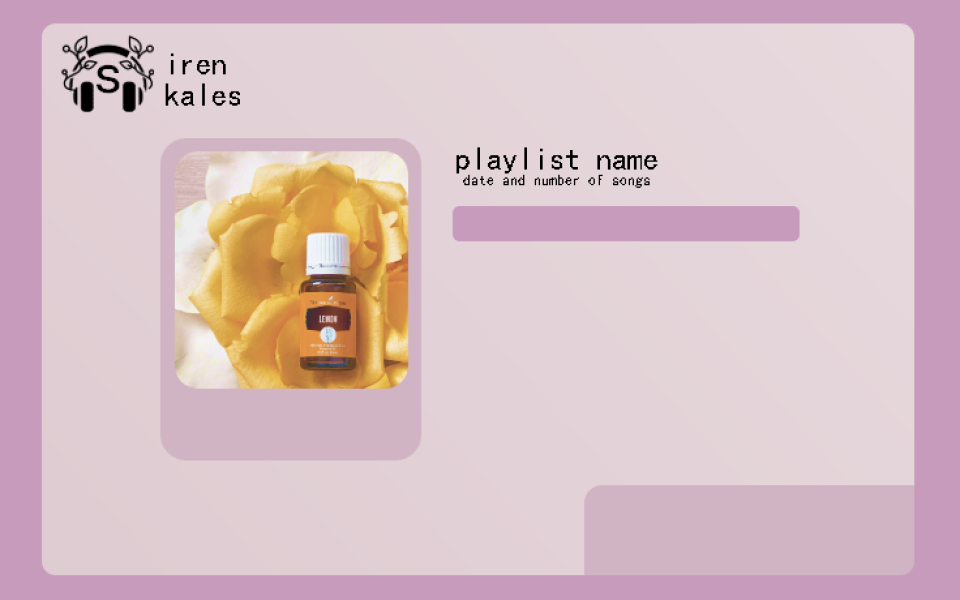
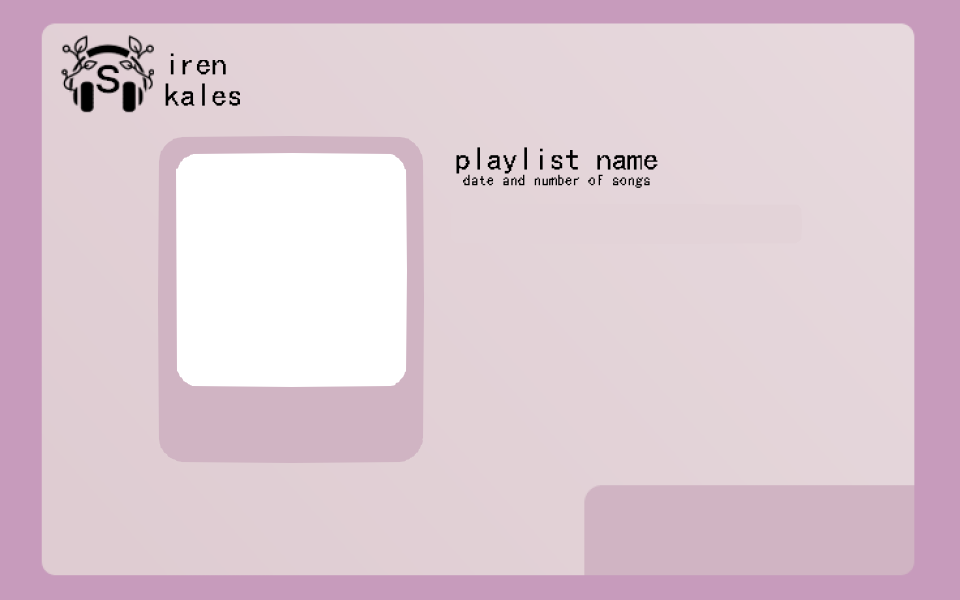
adding images

Changed region(s): [[0.1562, 0.21, 0.4375, 0.66], [0.4688, 0.33, 0.8438, 0.42]]

diff --git a/src/scenes/MusicPlayer.js b/src/scenes/MusicPlayer.js
@@ -9,14 +9,21 @@ class MusicPlayer extends Phaser.Scene {
         this.load.audio(game.playlist[1].songName, '././assets/music/MLM_song2.wav');
         this.load.audio(game.playlist[2].songName, '././assets/music/synthySong.wav');
 
+        
+        //hover sounds
+        this.load.audio('hover1SFX', '././assets/sfx/hover1.wav');
+        this.load.audio('hover2SFX', '././assets/sfx/hover2.wav');
+        this.load.audio('hover3SFX', '././assets/sfx/hover3.wav');
+        this.load.audio('hover4SFX', '././assets/sfx/hover4.wav');
+        //click sounds
+        this.load.audio('click1SFX', '././assets/sfx/click1.wav');
+        this.load.audio('click2SFX', '././assets/sfx/click2.wav');
+        this.load.audio('click3SFX', '././assets/sfx/click3.wav');
+        
+
         //buttons
         //this.load.image('audioOff', '././assets/audioOff.png');
         this.load.image('mp_bg', '././assets/musicPlayer_bg.png');
-        this.load.image('bigPlay', '././assets/bigPlay.png');
-        this.load.image('bigPause', '././assets/bigPause.png');
-
-        this.load.image('bigPlayHover', '././assets/bigPlayHover.png');
-        this.load.image('bigPauseHover', '././assets/bigPauseHover.png');
 
         this.load.image('smallPlay', '././assets/smallPlay.png');
         this.load.image('smallPause', '././assets/smallPause.png');
@@ -35,6 +42,11 @@ class MusicPlayer extends Phaser.Scene {
         this.load.image('songNote', '././assets/songNote.png');
         this.load.image('songAreaHover', '././assets/songHover.png');
         this.load.image('songArea', '././assets/songArea.png');
+
+        //album covers
+        this.load.image(game.playlist[0].albumCover, '././assets/songImage1.png');
+        this.load.image(game.playlist[1].albumCover, '././assets/songImage2.png');
+        this.load.image(game.playlist[2].albumCover, '././assets/songImage3.png');
 
         //tab stuff
         this.load.image('tabLine', '././assets/tabLine.png');
@@ -67,33 +79,6 @@ class MusicPlayer extends Phaser.Scene {
         game.currSong.stop();
         game.currSong.play(this.musicConfig);
 
-        this.sentConfig = {
-            fontFamily: 'Helvetica',
-            fontStyle: 'bold',
-            fontSize: '30px',
-            color: '#FACADE',
-            align: 'center',
-            padding: {
-                right: 10,
-                left: 10,
-                top: 5,
-                bottom: 5,
-            },
-        }
-        this.recievedConfig = {
-            fontFamily: 'Helvetica',
-            fontStyle: 'bold',
-            fontSize: '30px',
-            color: '#FAA',
-            align: 'center',
-            padding: {
-                right: 10,
-                left: 10,
-                top: 5,
-                bottom: 5,
-            },
-        }
-
         let songNameConfig = {
             fontFamily: 'Helvetica',
             fontStyle: 'bold',
@@ -111,6 +96,22 @@ class MusicPlayer extends Phaser.Scene {
         let songInfoConfig = {
             fontFamily: 'Helvetica',
             fontStyle: 'bold',
+            fontSize: '15px',
+            color: '#9E9E9E',
+            align: 'center',
+            padding: {
+                right: 10,
+                left: 10,
+                top: 5,
+                bottom: 5,
+            },
+            wordWrap: { width: 250, useAdvancedWrap: true }
+        }
+        
+
+        let numbersConfig = {
+            fontFamily: 'Helvetica',
+            fontStyle: 'bold',
             fontSize: '10px',
             color: '#9E9E9E',
             align: 'center',
@@ -125,20 +126,21 @@ class MusicPlayer extends Phaser.Scene {
         this.playlistSongAreas = [];
         this.playlistNotes = [];
         var playlistNum = 0;
-        var songListStartY = 270;
+        var songListStartY = 250;
+        var songListStartX = 460;
         game.playlist.forEach(song => {
-            this.add.text(500,songListStartY+playlistNum*40,song.songName,songNameConfig).setDepth(4);
-            this.add.text(500,songListStartY+20+playlistNum*40,song.artist + ' · ' + song.album,songInfoConfig).setDepth(4);
+            this.add.text(songListStartX,songListStartY+5+playlistNum*40,song.songName,songNameConfig).setDepth(4);
             this.playlistSongAreas.push(
-                this.add.image(190,songListStartY+20+playlistNum*40, 'songArea').setDepth(3).setOrigin(0,0.5)
+                this.add.image(songListStartX-30,songListStartY+20+playlistNum*40, 'songArea').setScale(1.4).setDepth(3).setOrigin(0,0.5)
             );
-            this.add.text(215,songListStartY+20+playlistNum*40, playlistNum+1, songInfoConfig).setDepth(4).setOrigin(0,0.5)
+            this.add.text(songListStartX-20,songListStartY+20+playlistNum*40, playlistNum+1, numbersConfig).setDepth(4).setOrigin(0,0.5)
             this.playlistNotes.push(
-                this.add.image(215,songListStartY+20+playlistNum*40, 'songPlay').setDepth(4).setOrigin(0,0.5).setAlpha(0)
+                this.add.image(songListStartX-15,songListStartY+20+playlistNum*40, 'songPlay').setScale(0.3).setDepth(4).setOrigin(0,0.5).setAlpha(0)
             );
             playlistNum++;
         });
 
+        this.albumCoverImg = this.add.image(170,200,game.playlist[0].albumCover).setOrigin(0);
 
         // =============================== add buttons ===============================
         let buttonConfig = {
@@ -176,10 +178,12 @@ class MusicPlayer extends Phaser.Scene {
         this.tabLinks = ['messengerScene','pdfScene'];
 
         //music player ui buttons
-        this.bigPlay = this.add.image(220,230,'bigPlay').setScale(0.5).setDepth(2).setDepth(2);
-        this.smallPlay = this.add.image(480,585,'smallPlay').setScale(0.5).setDepth(2).setDepth(2);
+        
+        this.currSongInfo = this.add.text(game.config.width-80,game.config.height-70,'INFO',songInfoConfig).setOrigin(1,0.5).setDepth(4);
 
-        this.audio = this.add.image(game.config.width-100,game.config.height-50,'audioOn').setScale(0.5).setDepth(2);
+        this.smallPlay = this.add.image(300,480,'smallPlay').setScale(0.5).setDepth(2).setDepth(2);
+
+        this.audio = this.add.image(game.config.width-150,220,'audioOn').setScale(0.5).setDepth(2);
 
         if(!game.audio){
             this.audio.setTexture('audioOff');
@@ -192,13 +196,16 @@ class MusicPlayer extends Phaser.Scene {
         playlistNum = 0;
         this.playlistSongAreas.forEach(area => {
             area.setInteractive();
+            var song = game.playlist[this.playlistSongAreas.indexOf(area)];
                 
             area.on('pointerdown', () => { 
+                this.albumCoverImg.setTexture(song.albumCover);
+                this.currSongInfo.text = song.artist + ' · ' + song.album;
                 //if you click on a song
                 //set all buttons to original look
                 this.playlistSongAreas.forEach(ar => {
                     ar.setTexture('songArea');
-                    this.playlistNotes[this.playlistSongAreas.indexOf(ar)].setTexture('songNote');
+                    this.playlistNotes[this.playlistSongAreas.indexOf(ar)].alpha = 0;
                 });
                 //play the song
                 this.playSong(this.songs[this.playlistSongAreas.indexOf(area)]);
@@ -211,7 +218,6 @@ class MusicPlayer extends Phaser.Scene {
                 game.currSong.setMute(false);
                 this.musicConfig.mute = false;
                 //set play buttons to pause
-                this.bigPlay.setTexture('bigPause');
                 this.smallPlay.setTexture('smallPause');
             });
 
@@ -284,52 +290,14 @@ class MusicPlayer extends Phaser.Scene {
 
         //==================== play buttons ========================
         
-        //big play button
-        this.bigPlay.setInteractive();
-        this.bigPlay.on('pointerdown', () => { 
-            if(game.musicPlay){
-                this.bigPlay.setTexture('bigPlay');
-                this.smallPlay.setTexture('smallPlay');
-                game.currSong.setMute(true);
-                this.musicConfig.mute = true;
-            }else{
-                this.bigPlay.setTexture('bigPause');
-                this.smallPlay.setTexture('smallPause');
-                if(game.audio){
-                    game.currSong.setMute(false);
-                    this.musicConfig.mute = false;
-                }
-            }
-            game.musicPlay = !game.musicPlay;
-        });
-
-        this.bigPlay.on('pointerover', () => { 
-            if(!game.musicPlay){
-                this.bigPlay.setTexture('bigPlayHover');
-            }else{
-                this.bigPlay.setTexture('bigPauseHover');
-            }
-        });
-        this.bigPlay.on('pointerout', () => { 
-            
-            if(!game.musicPlay){
-                this.bigPlay.setTexture('bigPlay');
-            }else{
-                this.bigPlay.setTexture('bigPause');
-            }
-        });
-
-        //small play button
         
         this.smallPlay.setInteractive();
         this.smallPlay.on('pointerdown', () => { 
             if(game.musicPlay){
-                this.bigPlay.setTexture('bigPlay');
                 this.smallPlay.setTexture('smallPlay');
                 game.currSong.setMute(true);
                 this.musicConfig.mute = true;
             }else{
-                this.bigPlay.setTexture('bigPause');
                 this.smallPlay.setTexture('smallPause');
                 if(game.audio){
                     game.currSong.setMute(false);

diff --git a/src/Main.js b/src/Main.js
@@ -4,7 +4,7 @@ let config = {
     width: 960,
     height: 650,
     backgroundColor: '#FFF',
-    scene: [ Messenger, MusicPlayer, Pdf, End ]
+    scene: [ MusicPlayer, Messenger,  Pdf, End ]
 }
 let game = new Phaser.Game(config);
 game.audio = false;
@@ -108,9 +108,9 @@ game.people = {
 }
 game.ppl = [new Person('Brett',game.fullConvos.p0, 1,true), new Person('Jamie',game.fullConvos.p1, 1,true)];
 
-game.playlist = [new Song('Faith and Company','Roadside Worship','Wait, There is More'),
-                new Song('Essential Toils','First Stone','Multiple Levels of Love'),
-                new Song('Marketing Mindfulness','A Sale on Salvation','Door to Door Deliverance')];
+game.playlist = [new Song('Faith and Company','Roadside Worship','Wait, There is More','albumCover1'),
+                new Song('Essential Toils','First Stone','Multiple Levels of Love','albumCover2'),
+                new Song('Marketing Mindfulness','A Sale on Salvation','Door to Door Deliverance','albumCover3')];
 
 game.currSong;
 //how many people have quit

diff --git a/prefabs/Song.js b/prefabs/Song.js
@@ -1,8 +1,9 @@
 class Song{
-    constructor(songName,artist,album) {
+    constructor(songName,artist,album,albumCover) {
         this.songName = songName;
         this.artist = artist;
         this.album = album;
+        this.albumCover = albumCover;
     }
 
 }
